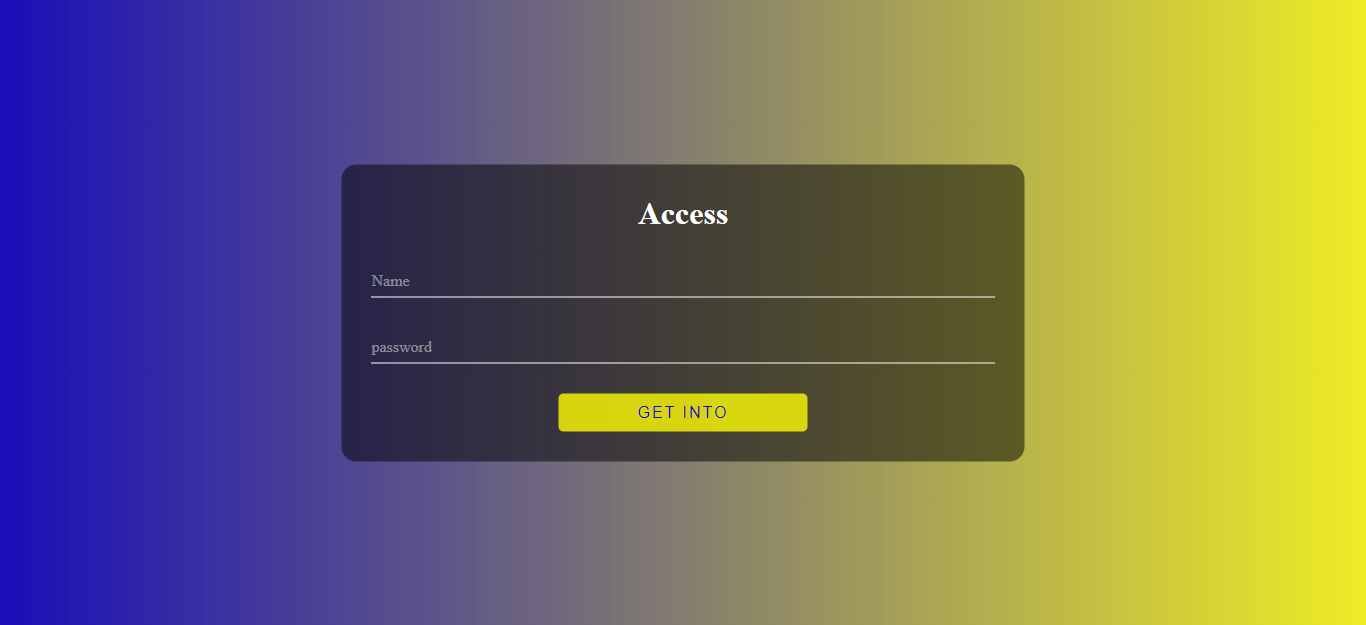
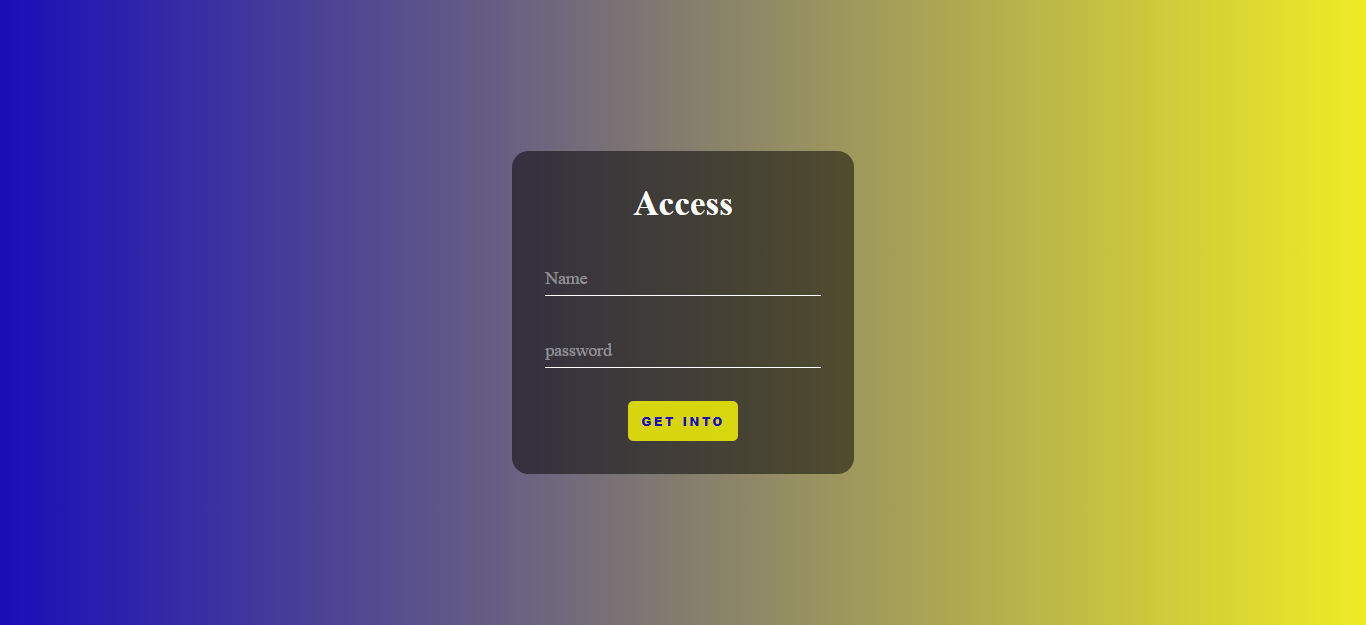
Add Display Flex, AutoComplete and Media Query

Changed region(s): [[0.246, 0.2432, 0.7687, 0.76], [0.4612, 0.304, 0.5534, 0.3648]]

diff --git a/assets/styles.css b/assets/styles.css
@@ -8,15 +8,22 @@ html{
     min-height: 100%;
 }
 
+.main-container{
+    display: flex;
+    align-items: center;
+    justify-content: center;
+    height: 100vh;
+}
+
 .cuadro-principal{
     background-color: rgba(0, 0, 0, .5);
     border-radius: 15px;
     padding: 30px;
-    position: absolute;
+    /* position: absolute;
     top: 50%;
     left: 50%;
-    transform: translate(-50%,-50%);
-    width: 50%;
+    transform: translate(-50%,-50%);*/
+    width: 25%; 
 }
 
 .form-title{
@@ -68,11 +75,13 @@ html{
     border: none;
     border-radius: 5px;
     color: rgb(25, 14, 184);
-    font-size: 1rem;
-    font-weight: 400;
+    display: inline-block;
+    font-size: 0.7rem;
+    font-weight: 800;
     letter-spacing: 2px;
     text-transform: uppercase;
-    padding: 10px 20px;
+    text-align: center;
+    padding: 10px;
     transition: all .5s;
     width: 40%;
 }
@@ -86,3 +95,13 @@ html{
 form div.boton .form_submit[type="submit"]:active{
     transform: scale(.9);
 }
+
+@media screen and (max-width: 480px) {
+    .cuadro-principal{
+        width: 60%;
+    }
+    .form_submit[type="submit"]{
+        font-size: 0.6rem;
+        letter-spacing: 1px;
+    }
+}    

diff --git a/index.html b/index.html
@@ -10,13 +10,13 @@
     <link rel="stylesheet" href="/assets/styles.css" media="">
 </head>
 <body>
-    <main>
+    <main class="main-container">
         <div class="cuadro-principal">  
             <div class="form-title">
                 <h1>Access</h1>
             </div>
             <div class="formulario">
-                <form action="#" method="post">
+                <form action="#" method="post" autocomplete="off">
                     <div class="content-inputs" id="name">
                         <input type="text" name="name" id="name"required >
                         <label for="name">Name</label>
